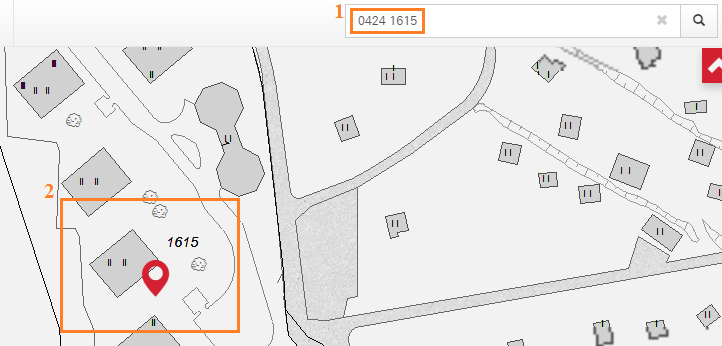
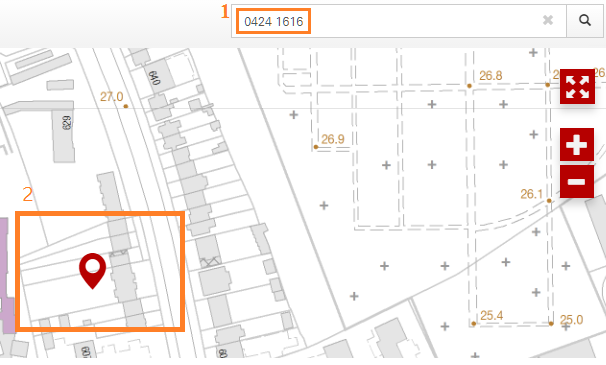
fix quickHelp und Beispiel flurstückssuche angepasst

diff --git a/modules/quickhelp/view.js b/modules/quickhelp/view.js
@@ -44,10 +44,10 @@ const quickHelpView = Backbone.View.extend({
 
         switch (value) {
             case "search": {
-                allgemein = "../img/allgemein.png";
-                allgemein2 = "../img/allgemein_2.png";
-                allgemein3 = "../img/allgemein_3.png";
-                allgemein4 = "../img/allgemein_4.png";
+                allgemein = "../../img/allgemein.png";
+                allgemein2 = "../../img/allgemein_2.png";
+                allgemein3 = "../../img/allgemein_3.png";
+                allgemein4 = "../../img/allgemein_4.png";
 
                 this.$el.html(this.templateSearch({
                     allgemein: allgemein,

diff --git a/modules/searchbar/model.js b/modules/searchbar/model.js
@@ -296,6 +296,10 @@ const SearchbarModel = Backbone.Model.extend({
 
     setSearchFieldisSelected: function (value) {
         this.set("searchFieldisSelected", value);
+    },
+
+    setQuickHelp: function (value) {
+        this.set("quickHelp", value);
     }
 });
 

diff --git a/modules/searchbar/view.js b/modules/searchbar/view.js
@@ -80,6 +80,9 @@ const SearchbarView = Backbone.View.extend({
             }
         });
 
+        if (config.quickHelp) {
+            this.model.setQuickHelp(config.quickHelp);
+        }
 
         this.initialRender();
 
